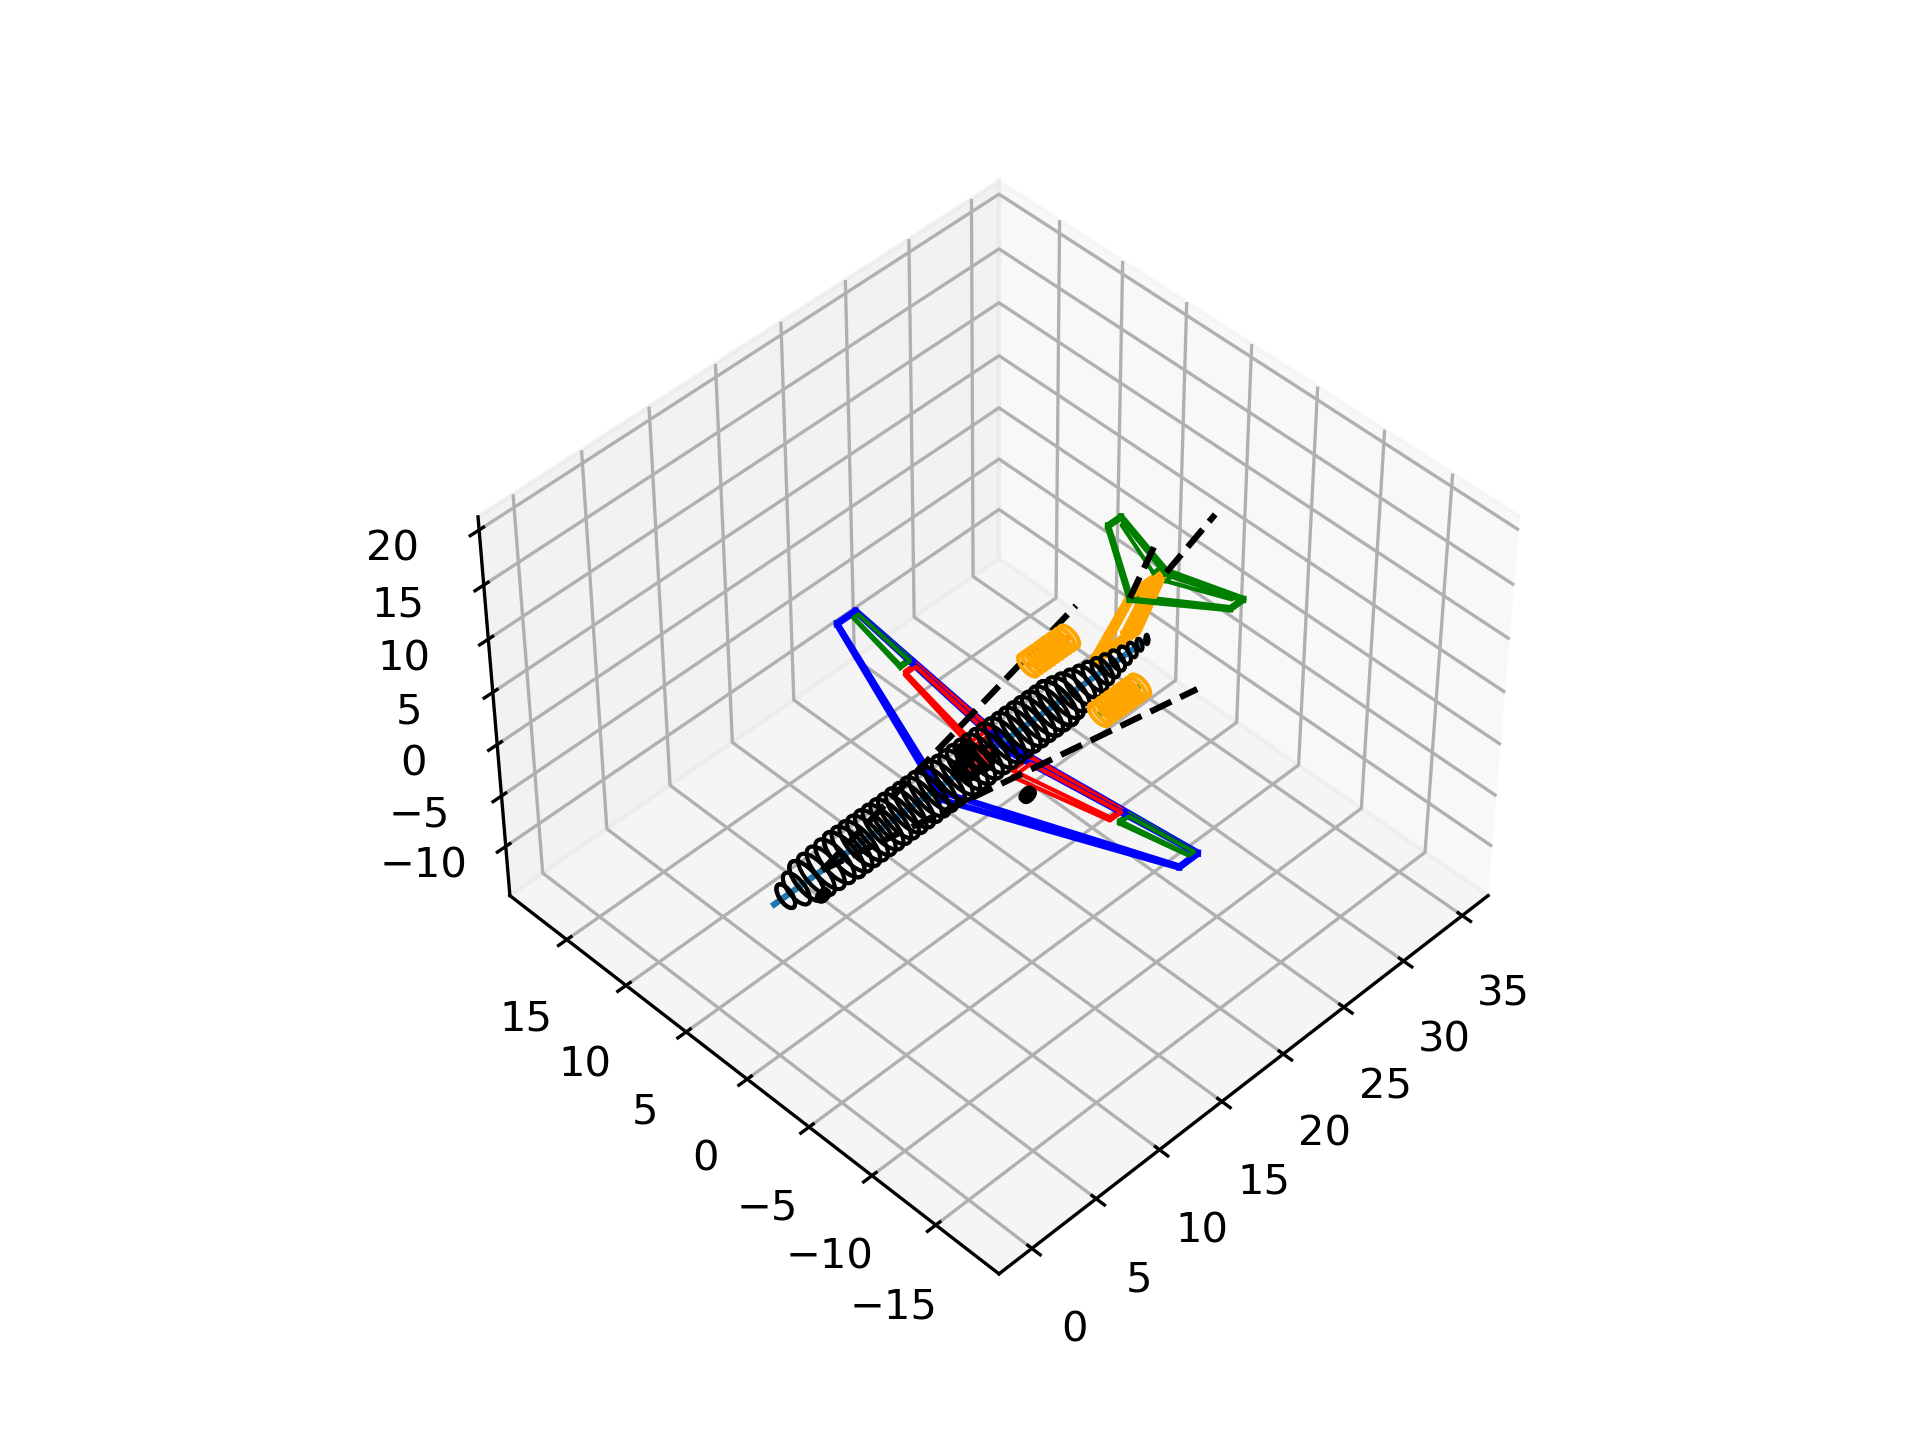
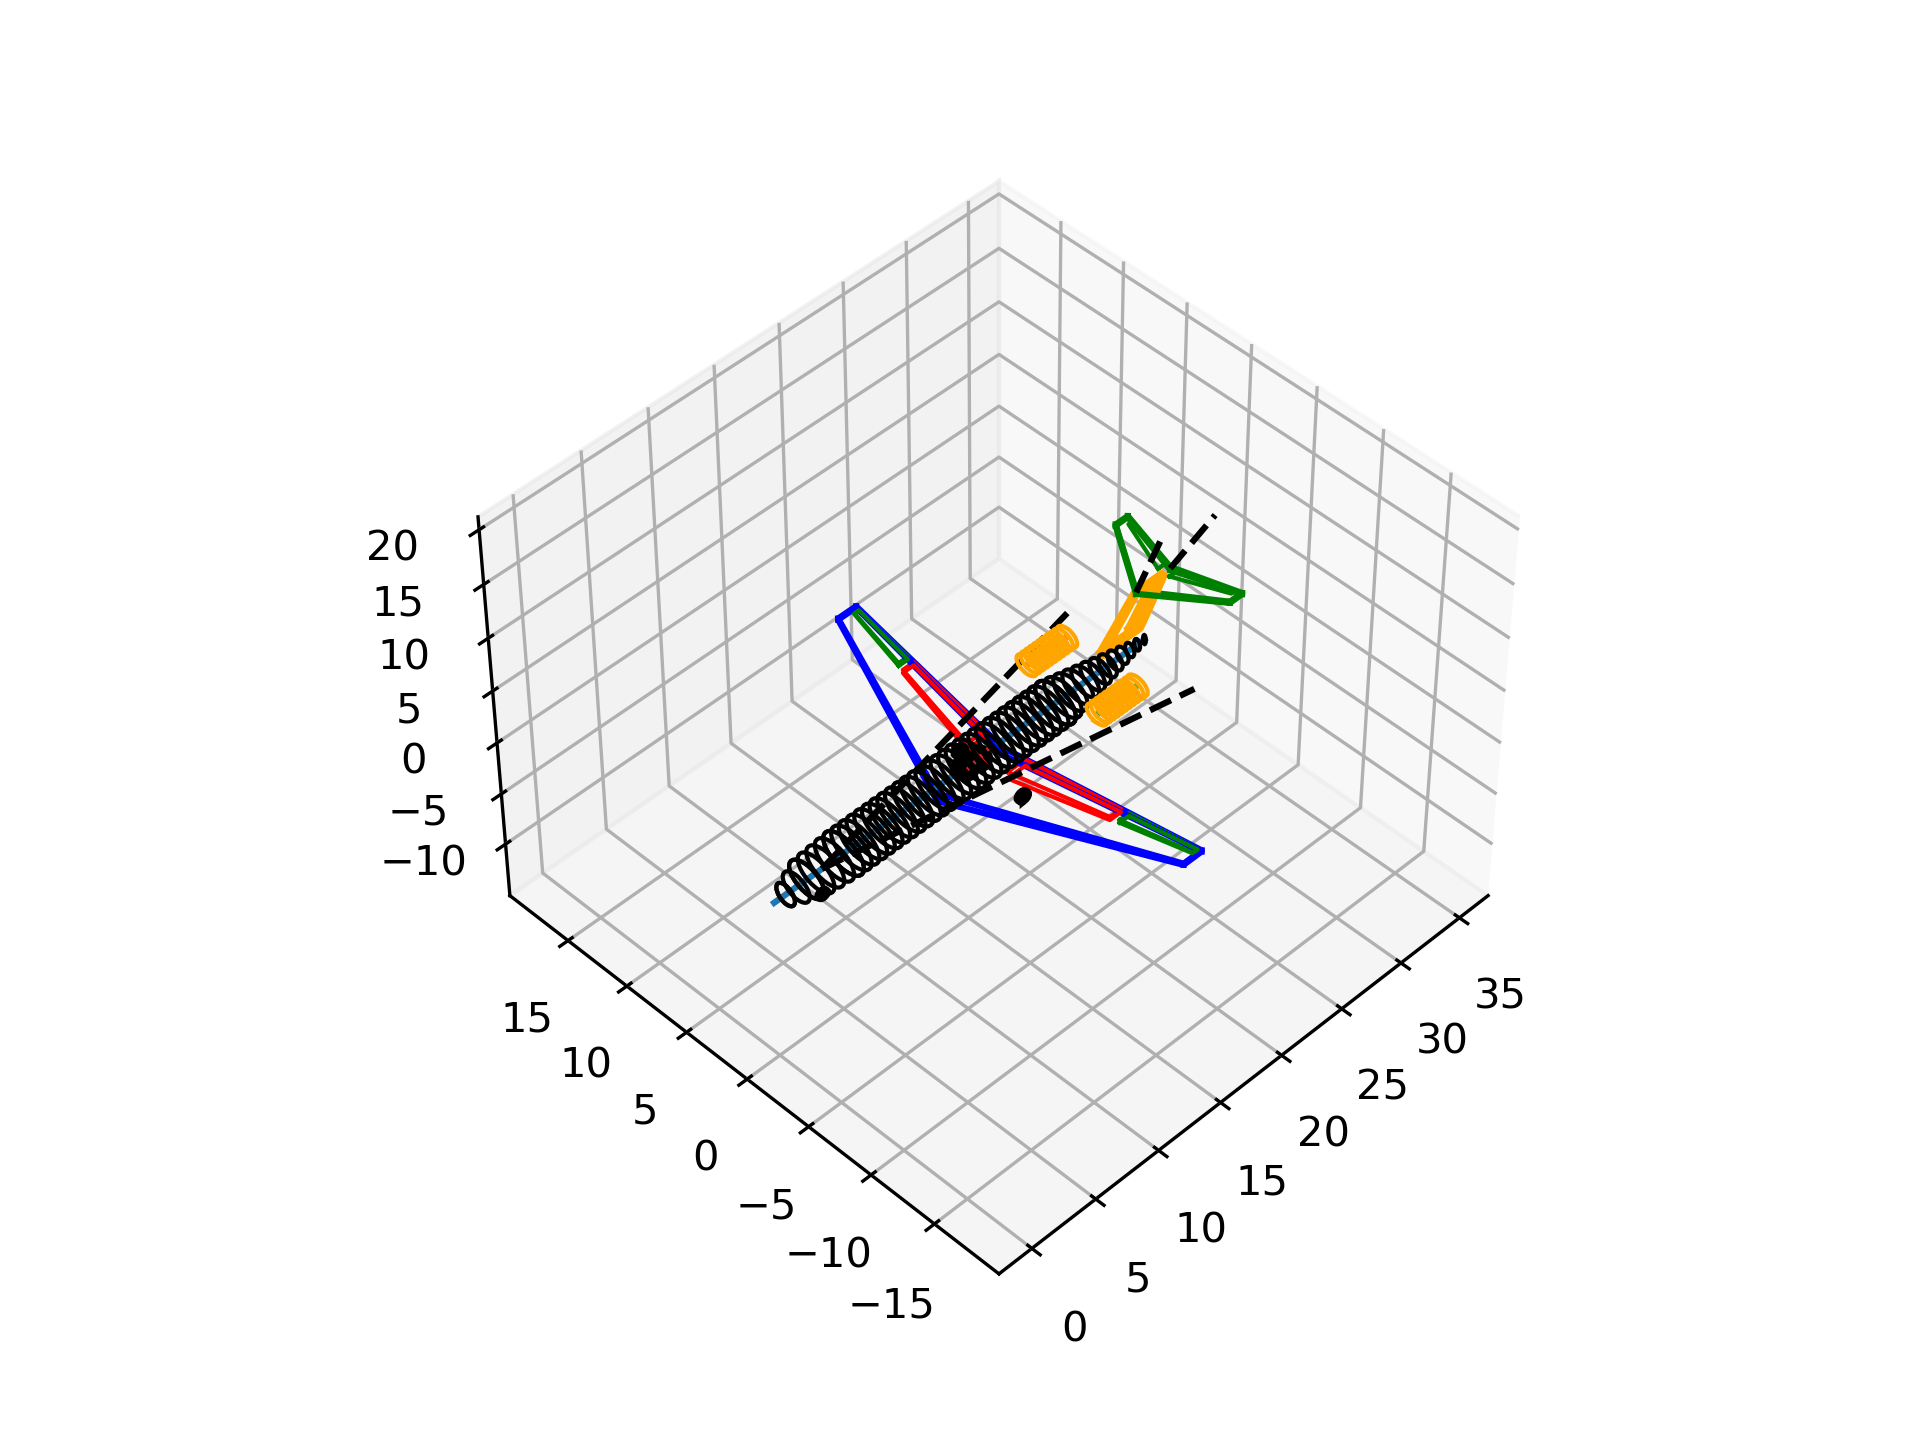
Atualização
DesignTool : coloquei aeronave otimizada

Optimization: to mexendo nos plots de convergencia e etc

3dview: vista da aeronave otimizada

diff --git a/Optimization.py b/Optimization.py
@@ -26,6 +26,7 @@ import designTool as dt
 
 # Matplotlib
 import matplotlib.pyplot as plt
+from mpl_toolkits.mplot3d import Axes3D
 
 ###############################################################################
 ############################## FUNÇÕES PRÓPRIAS ###############################
@@ -145,7 +146,11 @@ class MyProblem(ElementwiseProblem):
         self.airplane["range_cruise"] = x[4]
         self.airplane["altitude_cruise"] = x[5]
         self.airplane["xr_w"] = x[6]
+        
+        # Apesar da posição do trem de pouso não ser uma variável, ela está
+        #atrelada á posição da asa.
         self.airplane["x_mlg"] = x[6] + 4.28
+        
         self.airplane["Cht"] = x[7]
         self.airplane["Lc_h"] = x[8]
         self.airplane["Cvt"] = x[9]
@@ -208,46 +213,61 @@ class MyProblem(ElementwiseProblem):
 ####### O problema está agora definido.
 problem = MyProblem()
 
-####### Definindo o algoritmo genético utilizado e os seus parâmetros:
-# Tamanho da população inicial: 200;
-# Quantidade de filhos por geração: 80;
+########------------------ DEFININDO O ALGORITMO USADO -----------------#######
+# Tamanho da população inicial: 300;
+# Quantidade de filhos por geração: 100;
 # Possibilidade de crossover com 90% de chance de ocorrência;
 # Possibilidade de mutação;
 # Eliminação de dados duplicados.
 
 algorithm = NSGA2(
-    pop_size=200,
-    n_offsprings=80,
+    pop_size=300,
+    n_offsprings=100,
     sampling=FloatRandomSampling(),
     crossover=SBX(prob=0.9, eta=15),
     mutation=PM(eta=20),
     eliminate_duplicates=True,
 )
 
-####### Definindo o critério de parada.
-#  Critério: parada na geração 200.
+########---------------- DEFININDO O CRITÉRIO DE PARADA ----------------#######
+#  Parada por geração: 2000. 
+#  Parada por alteração nas variáveis: 0.00001.
+#  Parada por alteração no objetivo: 50.
+#  Parada por população máxima: 100000.
+#  Avaliação do critério de parada a cada: 100 gerações.
 
 termination = DefaultSingleObjectiveTermination(
     xtol=1e-5, ftol=50, period=100, n_max_gen=2000, n_max_evals=100000
 )
+
+########-------------------- ATIVANDO O OTIMIZADOR ---------------------#######
 ####### Compilando o otimizador com a definição do problema, algoritmo e
 #######critério de parada.
 
-res = minimize(problem, algorithm, termination, seed=3, save_history=True, verbose=True)
+res = minimize(problem, algorithm,  termination, seed=3, save_history=True, verbose=True)
 
+###############################################################################
+########################### AVALIANDO OS RESULTADOS ###########################
+###############################################################################
+
+# Variáveis no momento da parada.
 X = res.X
 
-
+# Função objetivo (alcance) no momento da parada.
 F = res.F
 
+##### Realizando o plot de histórico da convergência.
 n_evals = np.array([e.evaluator.n_eval for e in res.history])
 opt = np.array([e.opt[0].F for e in res.history])
 
 plt.title("Convergence")
 plt.plot(n_evals, -opt, "--")
+plt.xlabel("Function calls")
+plt.ylabel("Range [m]")
 plt.show()
 
-
+##### Inicializando os limites superiores e inferiores das variáveis para rea-
+#####lizar posterior retorno dos valores normalizados para o domínio original.
 Sweep_Lower = 6.6 * np.pi / 180
 Sweep_Upper = 35 * np.pi / 180
 
@@ -281,6 +301,8 @@ Cvt_Upper = 0.12
 Lbv_Lower = 0.42 * 0.9
 Lbv_Upper = 0.42 * 1.1
 
+######### Observando os valores das variáveis no critério de parada, no domínio
+#########original dos valores.
 Sweep = (Denormalize(X[0], Sweep_Lower, Sweep_Upper)) * (180 / np.pi)
 MachCruise = Denormalize(X[1], MachCruise_Lower, MachCruise_Upper)
 AR_w = Denormalize(X[2], AR_Lower, AR_Upper)
@@ -293,3 +315,38 @@ Lch = Denormalize(X[8], Lch_Lower, Lch_Upper)
 Cvt = Denormalize(X[9], Cvt_Lower, Cvt_Upper)
 Lbv = Denormalize(X[10], Lbv_Lower, Lbv_Upper)
 T0 = 130000 + res.G[12] * 130000
+
+
+##### Chamdando o dicionário novamente para faze o plot da aeronave com valo-
+#####res atualizados.
+airplane = dt.standard_airplane("F70_XerifeEdition")
+
+airplane["sweep_w"] = Sweep * (np.pi / 180)
+airplane["Mach_cruise"] = MachCruise
+airplane["AR_w"] = AR_w
+airplane["S_w"] = S_w
+airplane["range_cruise"] = Range
+airplane["altitude_cruise"] = AltCruise
+airplane["xr_w"] = xr_w
+
+airplane["x_mlg"] = xr_w + 4.28
+
+airplane["Cht"] = Cht
+airplane["Lc_h"] = Lch
+airplane["Cvt"] = Cvt
+airplane["Lb_v"] = Lbv
+        
+airplane = dt.analyze(
+    airplane=airplane,
+    print_log=False,  # Plot results on the terminal screen
+    plot=True,  # Generate 3D plot of the aircraft
+)
+pf_a, pf_b = problem.pareto_front(use_cache=False, flatten=False
+pf = problem.pareto_front(use_cache=False, flatten=True)
+plt.figure(figsize=(7, 5))
+plt.scatter(F[:, 0], F[:, 1], s=30, facecolors='none', edgecolors='b', label="Solutions")
+plt.plot(pf_a[:, 0], pf_a[:, 1], alpha=0.5, linewidth=2.0, color="red", label="Pareto-front")
+plt.plot(pf_b[:, 0], pf_b[:, 1], alpha=0.5, linewidth=2.0, color="red")
+plt.title("Objective Space")
+plt.legend()
+plt.show()

diff --git a/designTool.py b/designTool.py
@@ -3452,7 +3452,7 @@ def standard_airplane(name="fokker100"):
             # "W0_guess": 36740 * gravity,  # Guess for MTOW
         }
 
-    elif name == "F70_XerifeEdition_2":
+    elif name == "F70_XerifeEdition_Optimized":
         # COMENTÁRIOS
 
         # PROCESSO DE OTIMIZAÇÃO/AJUSTE
